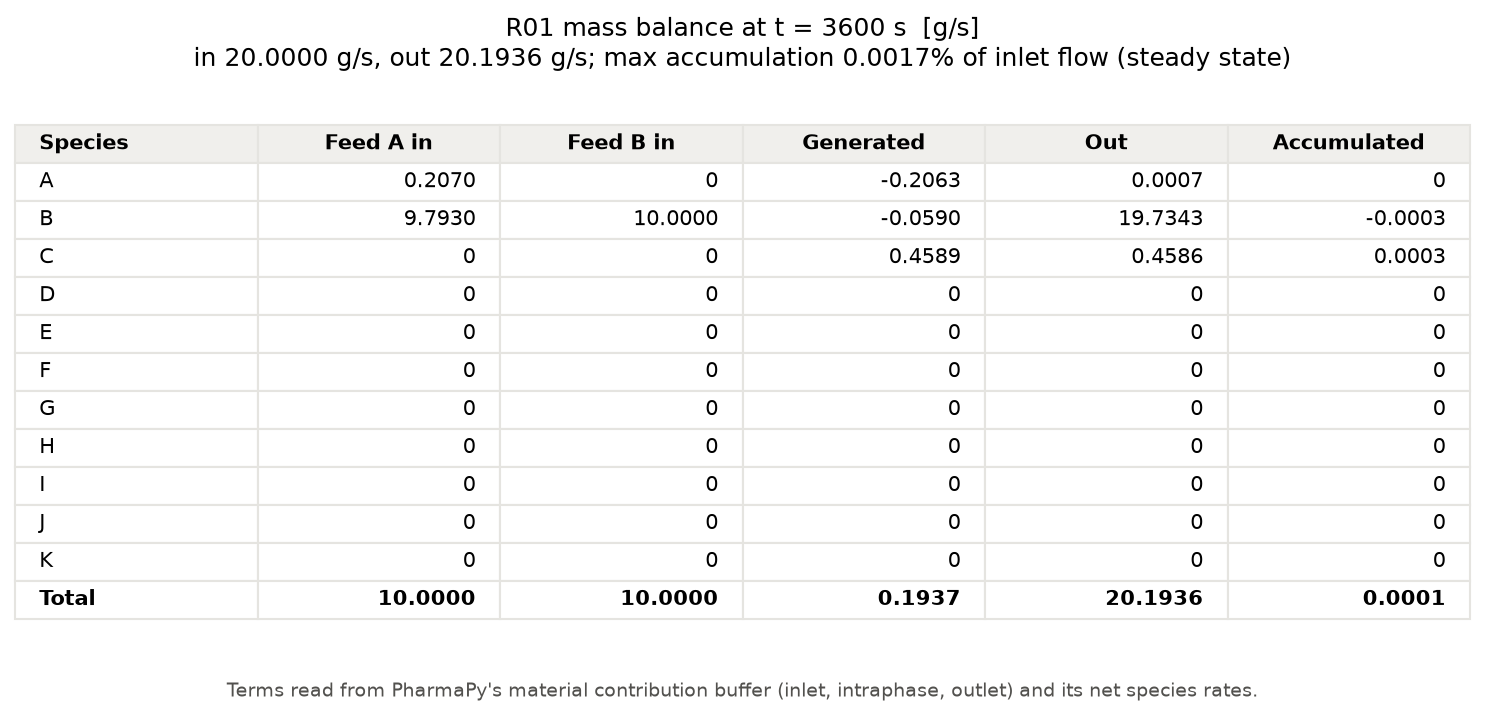
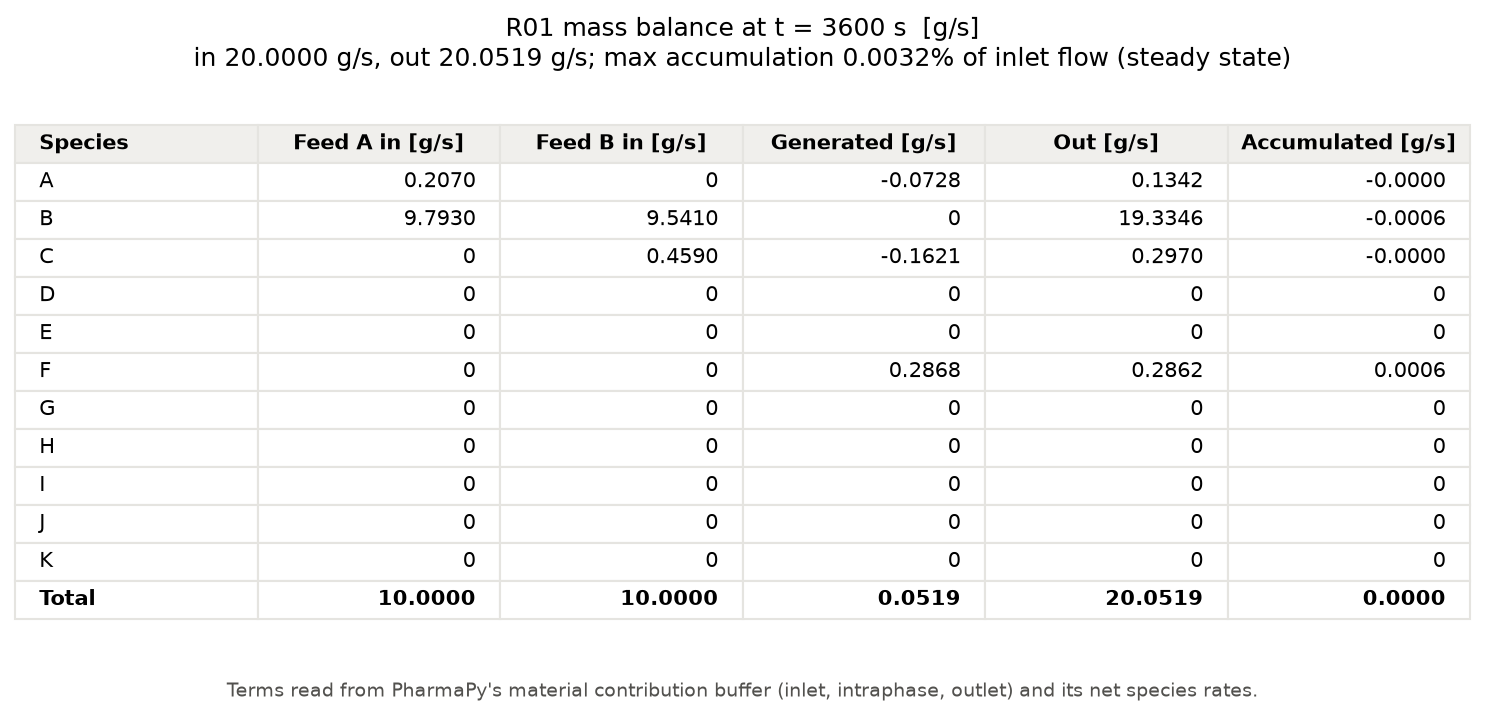
R01H: react A + C --> F, plot w_i for every reacting species
The reaction is now A + C --> F. Feed B carries C at 0.0459 mass
fraction (0.33 mol/L, matching feed A's 0.33 mol/L of A); with pure
solvent there, no C would enter and nothing would react.

The profile figure plots w_i for each species named in REACTIONS
(solvent left out) against time and against T, with a legend, in place
of w_A alone; temperature is drawn in black so it cannot be mistaken for
a species. The mass-balance table headers now carry their units [g/s].
Figures regenerated.

Claude-Session: https://claude.ai/code/session_0156qEeAkVkoXs64YvXSdP7i

diff --git a/Project work/R01H.py/R01H.py b/Project work/R01H.py/R01H.py
@@ -21,7 +21,7 @@ rate constants stay in L/mol/s.
 The reactor is jacketed rather than isothermal so that temperature is a solved
 state: the heat of reaction raises it, the jacket and the feeds pull it back,
 and the Arrhenius term feeds it back into the rate. That is what makes the
-w_A-vs-T phase portrait meaningful.
+w_i-vs-T phase portrait meaningful.
 
 Run it with::
 
@@ -30,7 +30,7 @@ Run it with::
 
 Figures are written to ``results/`` next to this file:
 
-    R01_profiles.png   w_A vs time, T vs time, w_A vs T
+    R01_profiles.png   w_i vs time, T vs time, w_i vs T (reacting species)
     R01_native.png     the same run through PharmaPy.Plotting.plot_function
     R01_settings.png   the settings and initial conditions used for the run
     R01_mass_balance.png  inlet vs outlet species balance at the final time
@@ -69,19 +69,19 @@ DEFAULT_DATABASE_PATH = HERE / "compound_databaseActual.json"
 RESULTS_DIR = HERE / "results"
 
 # ---------------------------------------------------------------- settings
-REACTIONS = ["A + B --> C"]
+REACTIONS = ["A + C --> F"]
 RATE_CONSTANTS = np.array([1.0e-2])  # L/mol/s, at KINETICS_TEMP_REF
 ACTIVATION_ENERGIES = np.array([4.0e4])  # J/mol
 KINETICS_TEMP_REF = 313.15  # K, rate constants above are quoted here
 HEAT_OF_REACTION = -5.0e4  # J/mol, negative = exothermic
 
-# Compositions are solute mass fractions; the solvent is the remainder.
-# B is the solvent here, so it never needs listing: FEED_B is pure B.
+# Compositions are solute mass fractions; the solvent (B) is the remainder,
+# so it never needs listing.
 FLOW_A = 1.0e-2  # kg/s
 FLOW_B = 1.0e-2  # kg/s
 FEED_TEMPERATURE = 313.15  # K
 FEED_A = {"A": 0.0207}  # mass fraction, ~0.33 mol/L of A
-FEED_B = {}  # mass fraction, pure solvent
+FEED_B = {"C": 0.0459}  # mass fraction, ~0.33 mol/L of C
 
 REACTOR_MASS = 10.0  # kg, initial charge (~0.01 m**3 of water)
 REACTOR_DIAMETER = 0.2  # m, jacket area = 4 V / D
@@ -315,29 +315,45 @@ def mass_fractions(reactor: ContinuousReactor) -> np.ndarray:
     return mass_j / mass_j.sum(axis=1, keepdims=True)
 
 
-def species_mass_frac(reactor: ContinuousReactor, name: str) -> np.ndarray:
-    """Liquid-phase mass-fraction history of one species."""
-    index = list(reactor.name_species).index(name)
-    return mass_fractions(reactor)[:, index]
+def reacting_species(reactor: ContinuousReactor) -> list[str]:
+    """Species named in REACTIONS, in order of appearance, minus the solvent."""
+    solvent_name = database_solvent(tuple(reactor.name_species))
+    names = []
+    for reaction in REACTIONS:
+        for side in reaction.split("-->"):
+            for term in side.split("+"):
+                name = term.strip().split()[-1]
+                if name not in names and name != solvent_name:
+                    names.append(name)
+    return names
 
 
 def plot_profiles(reactor: ContinuousReactor):
-    """w_A vs time, T vs time and the w_A-T phase portrait, side by side."""
+    """w_i vs time, T vs time and the w_i-T phase portrait, side by side.
+
+    i runs over the species in REACTIONS (the solvent left out).
+    """
     import matplotlib.pyplot as plt
 
     result = reactor.result
     time_min = np.asarray(result.time) / 60.0
-    frac_a = species_mass_frac(reactor, "A")
+    fractions = mass_fractions(reactor)
+    index = {name: j for j, name in enumerate(reactor.name_species)}
+    species = reacting_species(reactor)
+    colors = dict(zip(species, SERIES_COLORS * len(species)))
     temp = np.ravel(result.global_temp)
 
     fig, (ax_ca, ax_t, ax_phase) = plt.subplots(1, 3, figsize=(15, 4.5))
 
-    ax_ca.plot(time_min, frac_a, color=SERIES_COLORS[0], lw=2)
+    for name in species:
+        ax_ca.plot(time_min, fractions[:, index[name]], color=colors[name],
+                   lw=2, label=name)
     ax_ca.set_xlabel("Time [min]")
-    ax_ca.set_ylabel("$w_A$ [kg/kg]")
-    ax_ca.set_title("Mass fraction of A")
+    ax_ca.set_ylabel("$w_i$ [kg/kg]")
+    ax_ca.set_title("Mass fraction of each species")
+    ax_ca.legend(title="i", frameon=False)
 
-    ax_t.plot(time_min, temp, color=SERIES_COLORS[1], lw=2)
+    ax_t.plot(time_min, temp, color=TEXT_PRIMARY, lw=2)
     ax_t.axhline(COOLANT_TEMPERATURE, color=TEXT_MUTED, lw=1, ls="--")
     ax_t.annotate("coolant inlet", (time_min[-1], COOLANT_TEMPERATURE),
                   xytext=(0, 4), textcoords="offset points", ha="right",
@@ -346,19 +362,18 @@ def plot_profiles(reactor: ContinuousReactor):
     ax_t.set_ylabel("$T$ [K]")
     ax_t.set_title("Reactor temperature")
 
-    ax_phase.plot(frac_a, temp, color=SERIES_COLORS[2], lw=2)
-    ax_phase.plot(frac_a[0], temp[0], "o", ms=8, color=SERIES_COLORS[2],
-                  mec="white", mew=2)
-    ax_phase.plot(frac_a[-1], temp[-1], "s", ms=8, color=SERIES_COLORS[2],
-                  mec="white", mew=2)
-    ax_phase.annotate("start", (frac_a[0], temp[0]), xytext=(8, 0),
-                      textcoords="offset points", va="center", fontsize=9)
-    ax_phase.annotate(f"t = {time_min[-1]:.0f} min", (frac_a[-1], temp[-1]),
-                      xytext=(-8, 0), textcoords="offset points",
-                      ha="right", va="center", fontsize=9)
-    ax_phase.set_xlabel("$w_A$ [kg/kg]")
+    for name in species:
+        frac = fractions[:, index[name]]
+        ax_phase.plot(frac, temp, color=colors[name], lw=2, label=name)
+        ax_phase.plot(frac[0], temp[0], "o", ms=7, color=colors[name],
+                      mec="white", mew=1.5)
+        ax_phase.plot(frac[-1], temp[-1], "s", ms=7, color=colors[name],
+                      mec="white", mew=1.5)
+    ax_phase.set_xlabel("$w_i$ [kg/kg]")
     ax_phase.set_ylabel("$T$ [K]")
-    ax_phase.set_title("$w_A$ vs $T$")
+    ax_phase.set_title(f"$w_i$ vs $T$  (\u25cf t = 0, \u25a0 t = "
+                       f"{time_min[-1]:.0f} min)")
+    ax_phase.legend(title="i", frameon=False)
 
     for axis in (ax_ca, ax_t, ax_phase):
         axis.grid(True, color="#e5e4e0", lw=0.8)
@@ -504,8 +519,9 @@ def plot_mass_balance(reactor: ContinuousReactor,
     def cell(value):
         return "0" if abs(value) < 5e-7 else f"{value:.4f}"
 
-    columns = (["Species"] + [f"{name} in" for name in feed_labels[:len(feeds)]]
-               + ["Generated", "Out", "Accumulated"])
+    columns = (["Species"]
+               + [f"{name} in [g/s]" for name in feed_labels[:len(feeds)]]
+               + ["Generated [g/s]", "Out [g/s]", "Accumulated [g/s]"])
     rows = []
     for j, name in enumerate(reactor.name_species):
         rows.append([name] + [cell(f[j]) for f in feeds]
